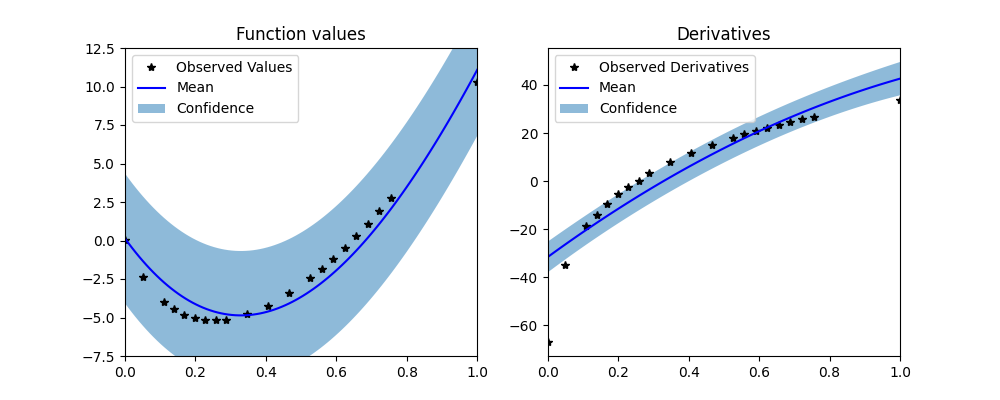
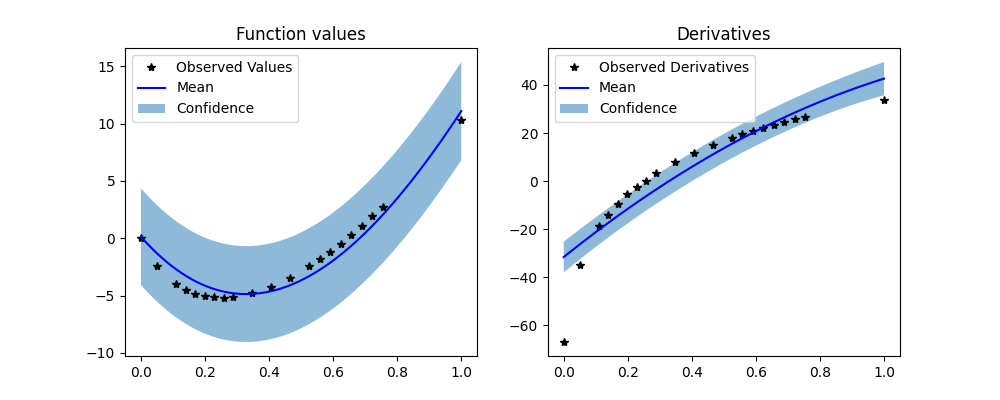
New results on new datasets

diff --git a/src/prototypes/gpytorch-scgp-first-order.py b/src/prototypes/gpytorch-scgp-first-order.py
@@ -136,6 +136,10 @@ if __name__ == "__main__":
         "adaptive": DATA_PATH / "Gaussian_logCA0_adaptive_J=20.csv",
         "uniform_HC": DATA_PATH / "Gaussian_HC_logCA0_uniform_J=20.csv",
         "adaptive_HC": DATA_PATH / "Gaussian_HC_logCA0_adaptive_J=20.csv",
+        "uniform_HC2": DATA_PATH / "Gaussian_HC_logCA0_uniform_J=20_HC2.csv",
+        "adaptive_HC2": DATA_PATH / "Gaussian_HC_logCA0_adaptive_J=20_HC2.csv",
+        "uniform_HC3": DATA_PATH / "Gaussian_HC_logCA0_uniform_J=20_HC3.csv",
+        "adaptive_HC3": DATA_PATH / "Gaussian_HC_logCA0_adaptive_J=20_HC3.csv",
     }
 
     kernels = {"RBFKernel": gpytorch.kernels.RBFKernelGrad()}
@@ -148,18 +152,22 @@ if __name__ == "__main__":
 
         for dataset_name, dataset_path in datasets.items():
             start_time = time.time()
-            train_x, train_y, data_scgp, data_likelihood = scgp_fit(
-                dataset_path, 100, kernel=kernel
-            )
-            save_plot_scpg(
-                train_x,
-                train_y,
-                data_scgp,
-                data_likelihood,
-                ker_name,
-                dataset_name
-            )
-            final_time = time.time() - start_time
-            print(
-                f"Finished {ker_name} on {dataset_name} took {final_time:.2f}s"
-            )
+            try:
+                train_x, train_y, data_scgp, data_likelihood = scgp_fit(
+                    dataset_path, 100, kernel=kernel
+                )
+                save_plot_scpg(
+                    train_x,
+                    train_y,
+                    data_scgp,
+                    data_likelihood,
+                    ker_name,
+                    dataset_name
+                )
+                final_time = time.time() - start_time
+                print(
+                    f"Finished {ker_name} on {dataset_name} took {final_time:.2f}s"
+                )
+            except Exception as e:
+                print(f"Error on {ker_name} on {dataset_name} took {e}")
+                continue
